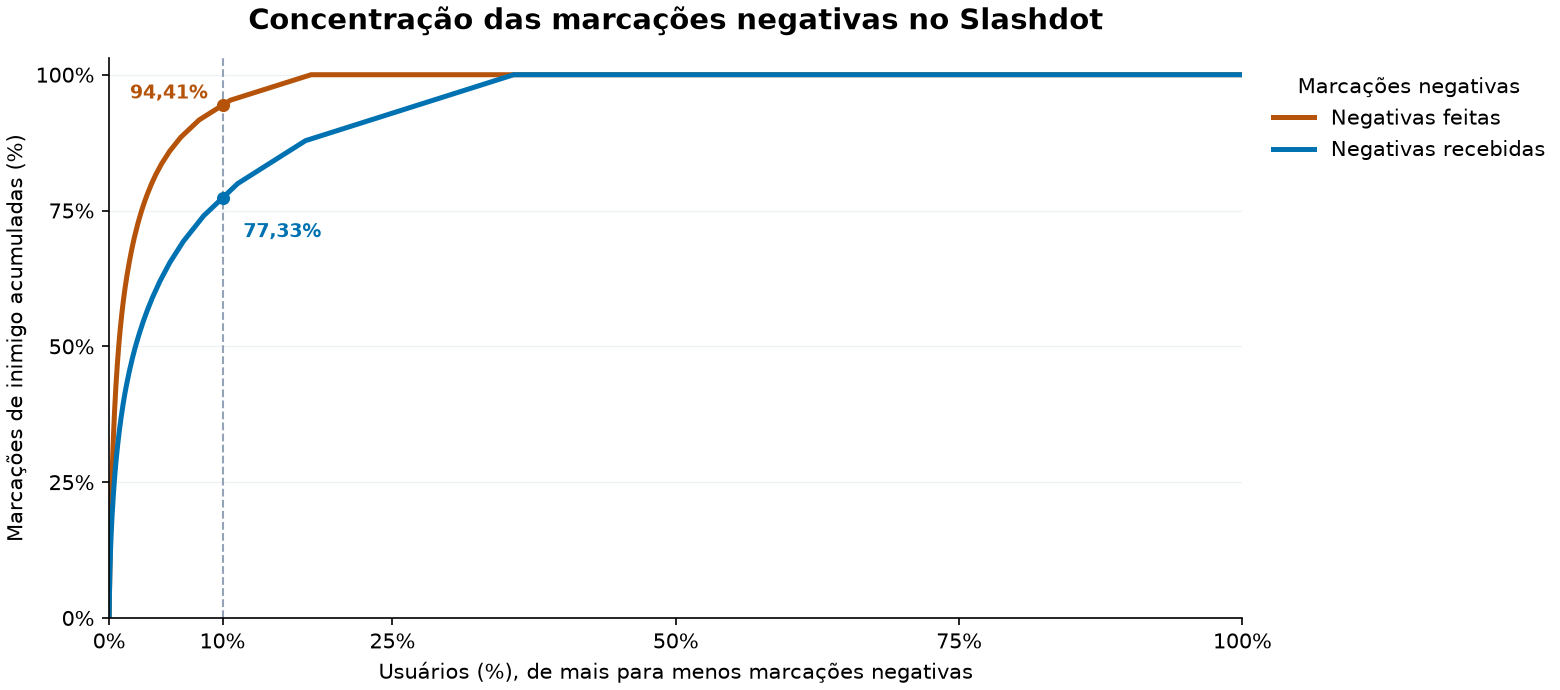
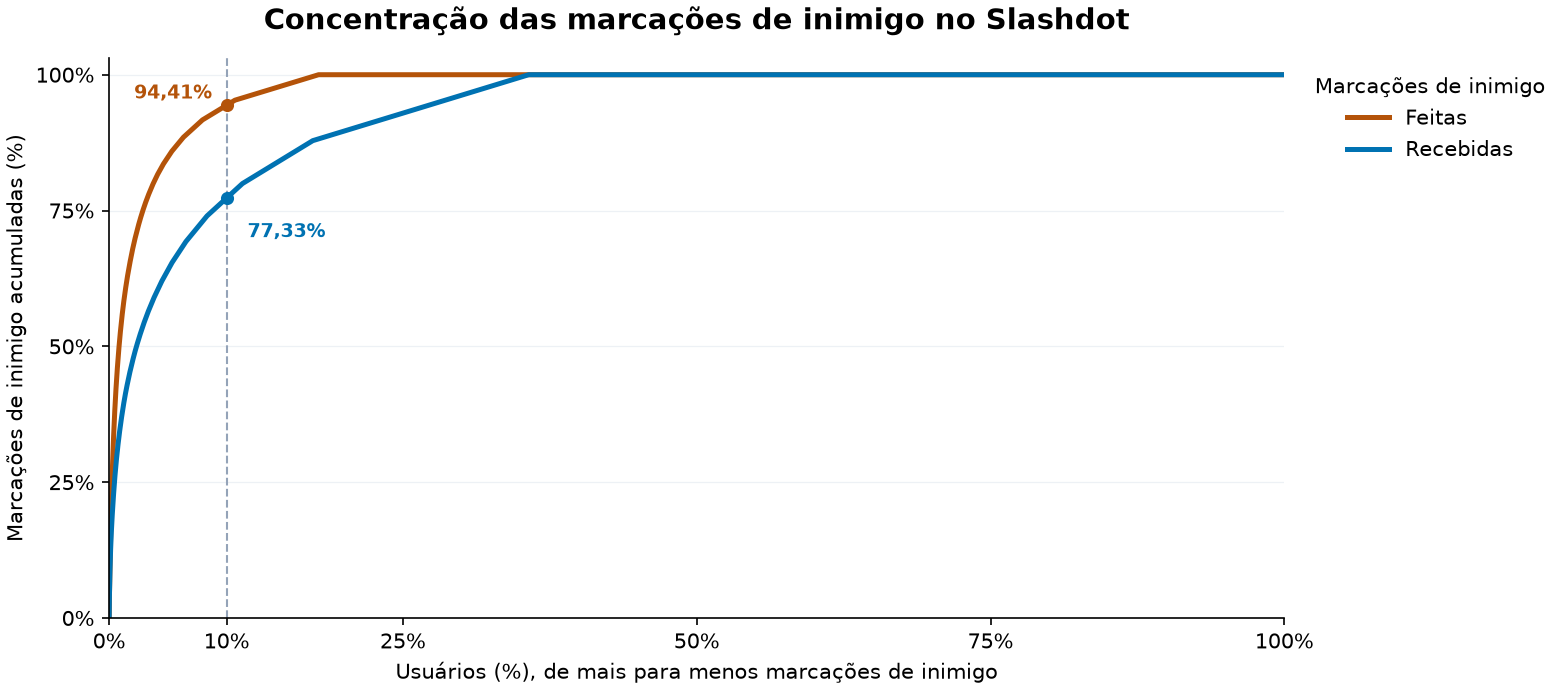
gráfico 5.5: marcações de inimigo no lugar de negativas (título, legenda e eixo)

diff --git a/web/app.js b/web/app.js
@@ -389,7 +389,7 @@ const FOTOS = [
   { f: "parte2/distribuicao_graus.png", titulo: "Distribuição dos graus", grupo: "exp", origem: "Notebook 01 · seção 5.4 · exploratória 1",
     mostra: "O gráfico compara, em cada faixa de grau, a porcentagem dos 82.140 usuários do Slashdot que receberam aquela quantidade de marcações (azul) e a porcentagem que fizeram aquela quantidade (laranja).",
     insight: "A diferença é especialmente clara na faixa zero. Quase metade dos usuários (46,4%) não fez nenhuma marcação, enquanto 14,4% não receberam nenhuma. No outro extremo, alguns usuários receberam 501 marcações ou mais. Nenhum usuário fez tantas marcações: o maior grau de saída foi 428." },
-  { f: "parte2/avd_concentracao_negativas.png", titulo: "Concentração das marcações negativas", grupo: "exp", origem: "Notebook 01 · seção 5.5 · exploratória 2",
+  { f: "parte2/avd_concentracao_negativas.png", titulo: "Concentração das marcações de inimigo", grupo: "exp", origem: "Notebook 01 · seção 5.5 · exploratória 2",
     mostra: "A porcentagem acumulada das 124.130 marcações de inimigo conforme se incluem os usuários, de quem tem mais para quem tem menos, com uma curva para as feitas (laranja) e outra para as recebidas (azul).",
     insight: "Os 10% do topo fizeram 94,41% das negativas e receberam 77,33%. Elas se concentram mais em quem marca." },
   { f: "parte2/avd_recebidas_feitas.png", titulo: "Marcações recebidas e feitas", grupo: "exp", origem: "Notebook 01 · seção 6.2 · exploratória 3",
